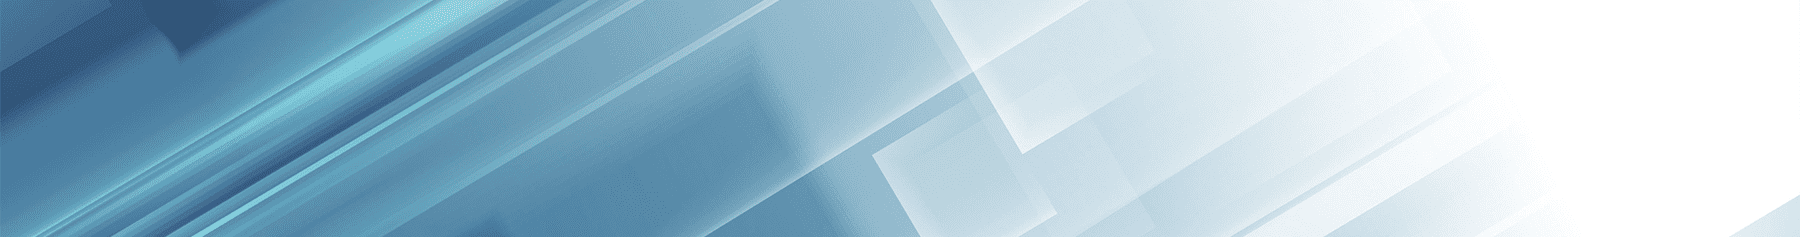
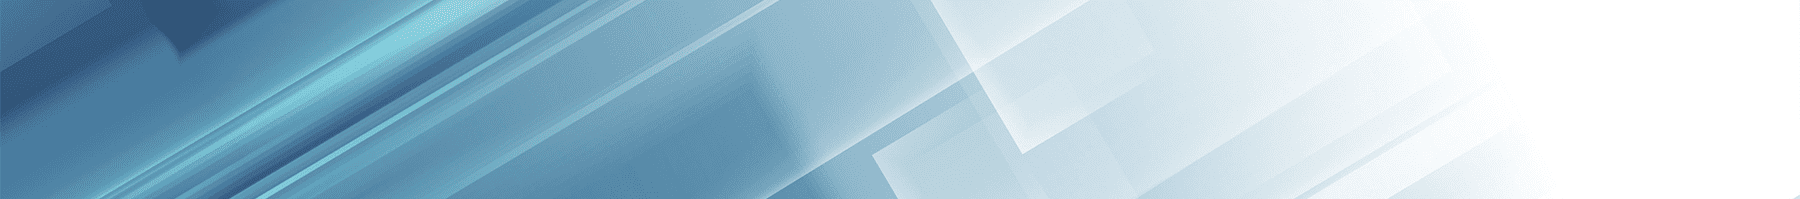
Add files via upload

diff --git a/index.html b/index.html
@@ -11,9 +11,10 @@
 
     .carousel {
       position: relative;
-      max-width: 100%;
+      max-width: 1200px;
+      margin: 0 auto;
       overflow: hidden;
-      max-height: 220px;
+      max-height: 180px;
     }
 
     .slides {
@@ -24,7 +25,7 @@
     .slide {
       flex: 0 0 100%;
       text-align: center;
-      padding: 10px;
+      padding: 8px;
     }
 
     .banner-wrapper {
@@ -34,7 +35,7 @@
       background-image: url('./image1.png');
       background-size: cover;
       background-position: center;
-      height: 200px;
+      height: 164px; /* 180px - 2*8px padding */
       padding: 20px;
       color: white;
       text-shadow: 0 0 4px rgba(0,0,0,0.6);
@@ -45,7 +46,8 @@
       display: flex;
       align-items: center;
       width: 100%;
-      padding-right: 140px;
+      height: 100%;
+      padding-right: 160px; /* Место для кнопки */
     }
 
     .banner-left {
@@ -54,16 +56,18 @@
       text-align: left;
       font-size: 20px;
       font-weight: bold;
-      padding-right: 15px; /* Уменьшили отступ справа */
+      padding-right: 20px;
+      height: 100%;
+      display: flex;
+      align-items: center;
     }
 
     .banner-image {
       flex-shrink: 0;
-      width: 280px;
-      height: 280px;
+      width: 124px; /* 280px не помещалось */
+      height: 124px;
       object-fit: contain;
-      margin-right: 150px; /* Уменьшили отступ справа */
-      margin-left: 0; /* Убрали автоматический отступ слева */
+      margin-right: 20px;
     }
 
     .subscribe-btn {
@@ -71,13 +75,13 @@
       bottom: 20px;
       right: 20px;
       display: inline-block;
-      padding: 14px 26px;
+      padding: 10px 20px;
       background-color: #2199abfa;
       color: white;
-      font-size: 18px;
+      font-size: 16px;
       font-weight: bold;
       text-decoration: none;
-      border-radius: 10px;
+      border-radius: 8px;
       transition: background-color 0.3s ease;
     }
 
@@ -87,7 +91,7 @@
 
     .pagination {
       position: absolute;
-      bottom: 8px;
+      bottom: 12px;
       width: 100%;
       text-align: center;
     }
@@ -107,25 +111,61 @@
       background-color: #717171;
     }
 
-    @media (max-width: 600px) {
+    @media (max-width: 768px) {
+      .banner-wrapper {
+        height: 140px;
+        padding: 15px;
+      }
+      
       .banner-left {
         font-size: 16px;
-        padding-right: 10px; /* Уменьшили еще больше для мобильных */
+        padding-right: 15px;
       }
 
+      .banner-image {
+        width: 80px;
+        height: 80px;
+        margin-right: 15px;
+      }
+      
+      .banner-content {
+        padding-right: 130px;
+      }
+      
       .subscribe-btn {
-        font-size: 16px;
-        padding: 12px 20px;
+        padding: 8px 16px;
+        font-size: 14px;
+        bottom: 15px;
+        right: 15px;
+      }
+    }
+
+    @media (max-width: 480px) {
+      .banner-wrapper {
+        height: 120px;
+        padding: 10px;
+      }
+      
+      .banner-left {
+        font-size: 14px;
+        padding-right: 10px;
       }
 
       .banner-image {
         width: 60px;
         height: 60px;
-        margin-right: 5px; /* Минимальный отступ для мобильных */
+        margin-right: 10px;
       }
       
       .banner-content {
-        padding-right: 120px;
+        padding-right: 110px;
+      }
+      
+      .subscribe-btn {
+        padding: 6px 12px;
+        font-size: 12px;
+        bottom: 10px;
+        right: 10px;
       }
     }
   </style>
@@ -149,7 +189,7 @@
     <!-- Баннер 2 -->
     <div class="slide" id="banner2">
       <a href="https://likevps.net/vps" target="_blank">
-        <img src="./image2.png" alt="Баннер 2" />
+        <img src="./image2.png" alt="Баннер 2" style="max-height: 164px; width: auto; margin: 0 auto; display: block;" />
       </a>
     </div>
 
@@ -223,6 +263,8 @@
     updateSlidePosition();
     startCarousel(totalSlides);
   }
+
+  initCarousel();
 </script>
 
 </body>
